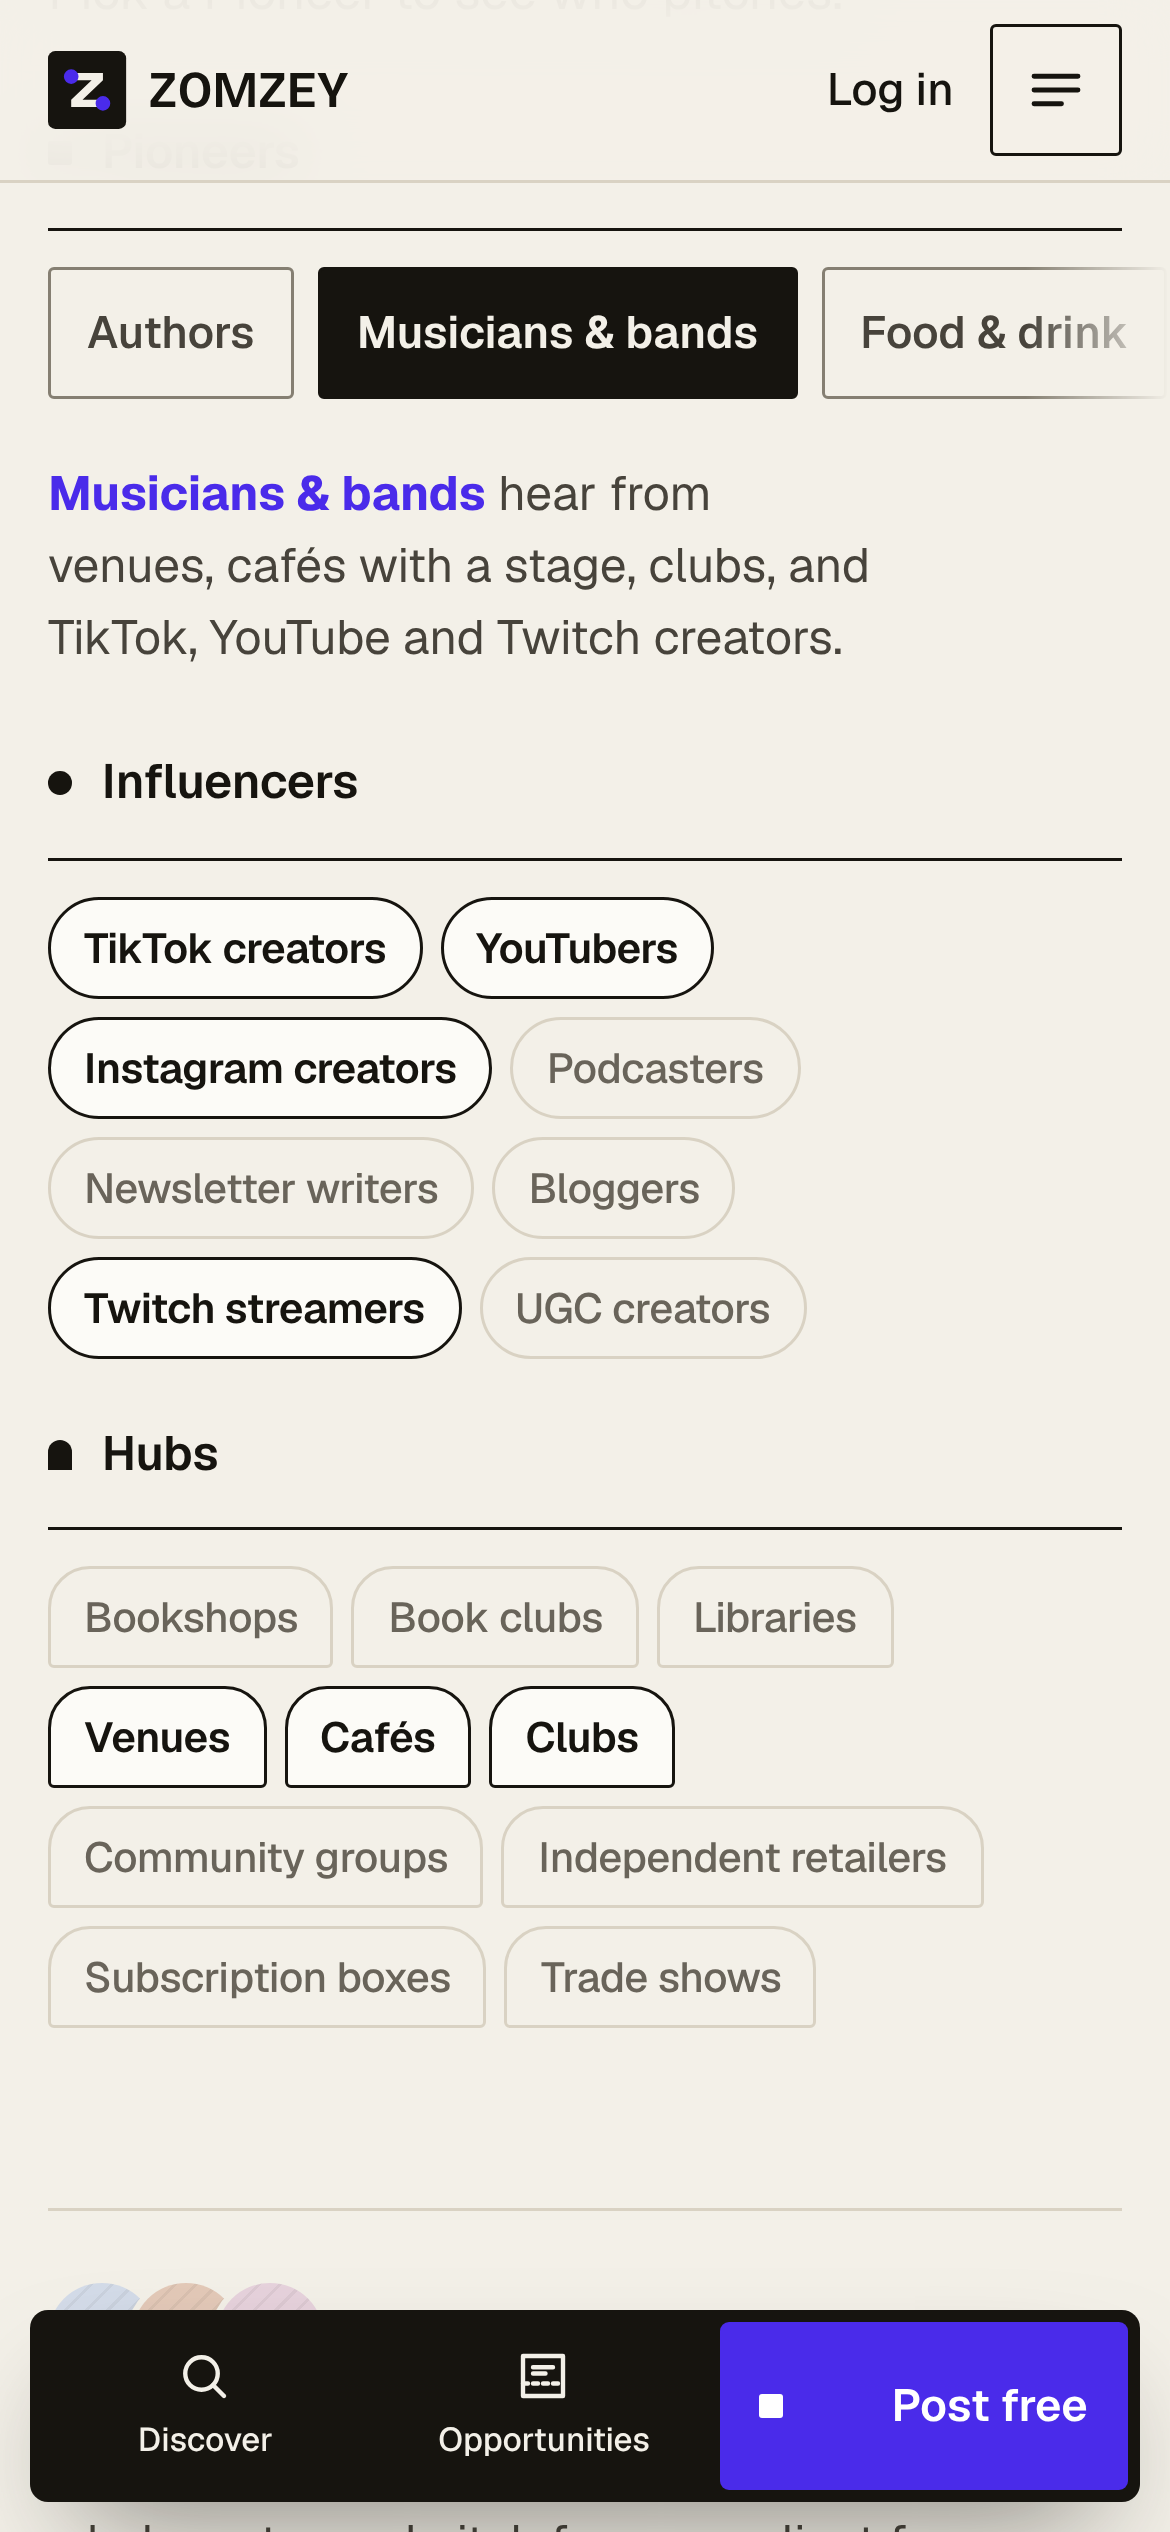
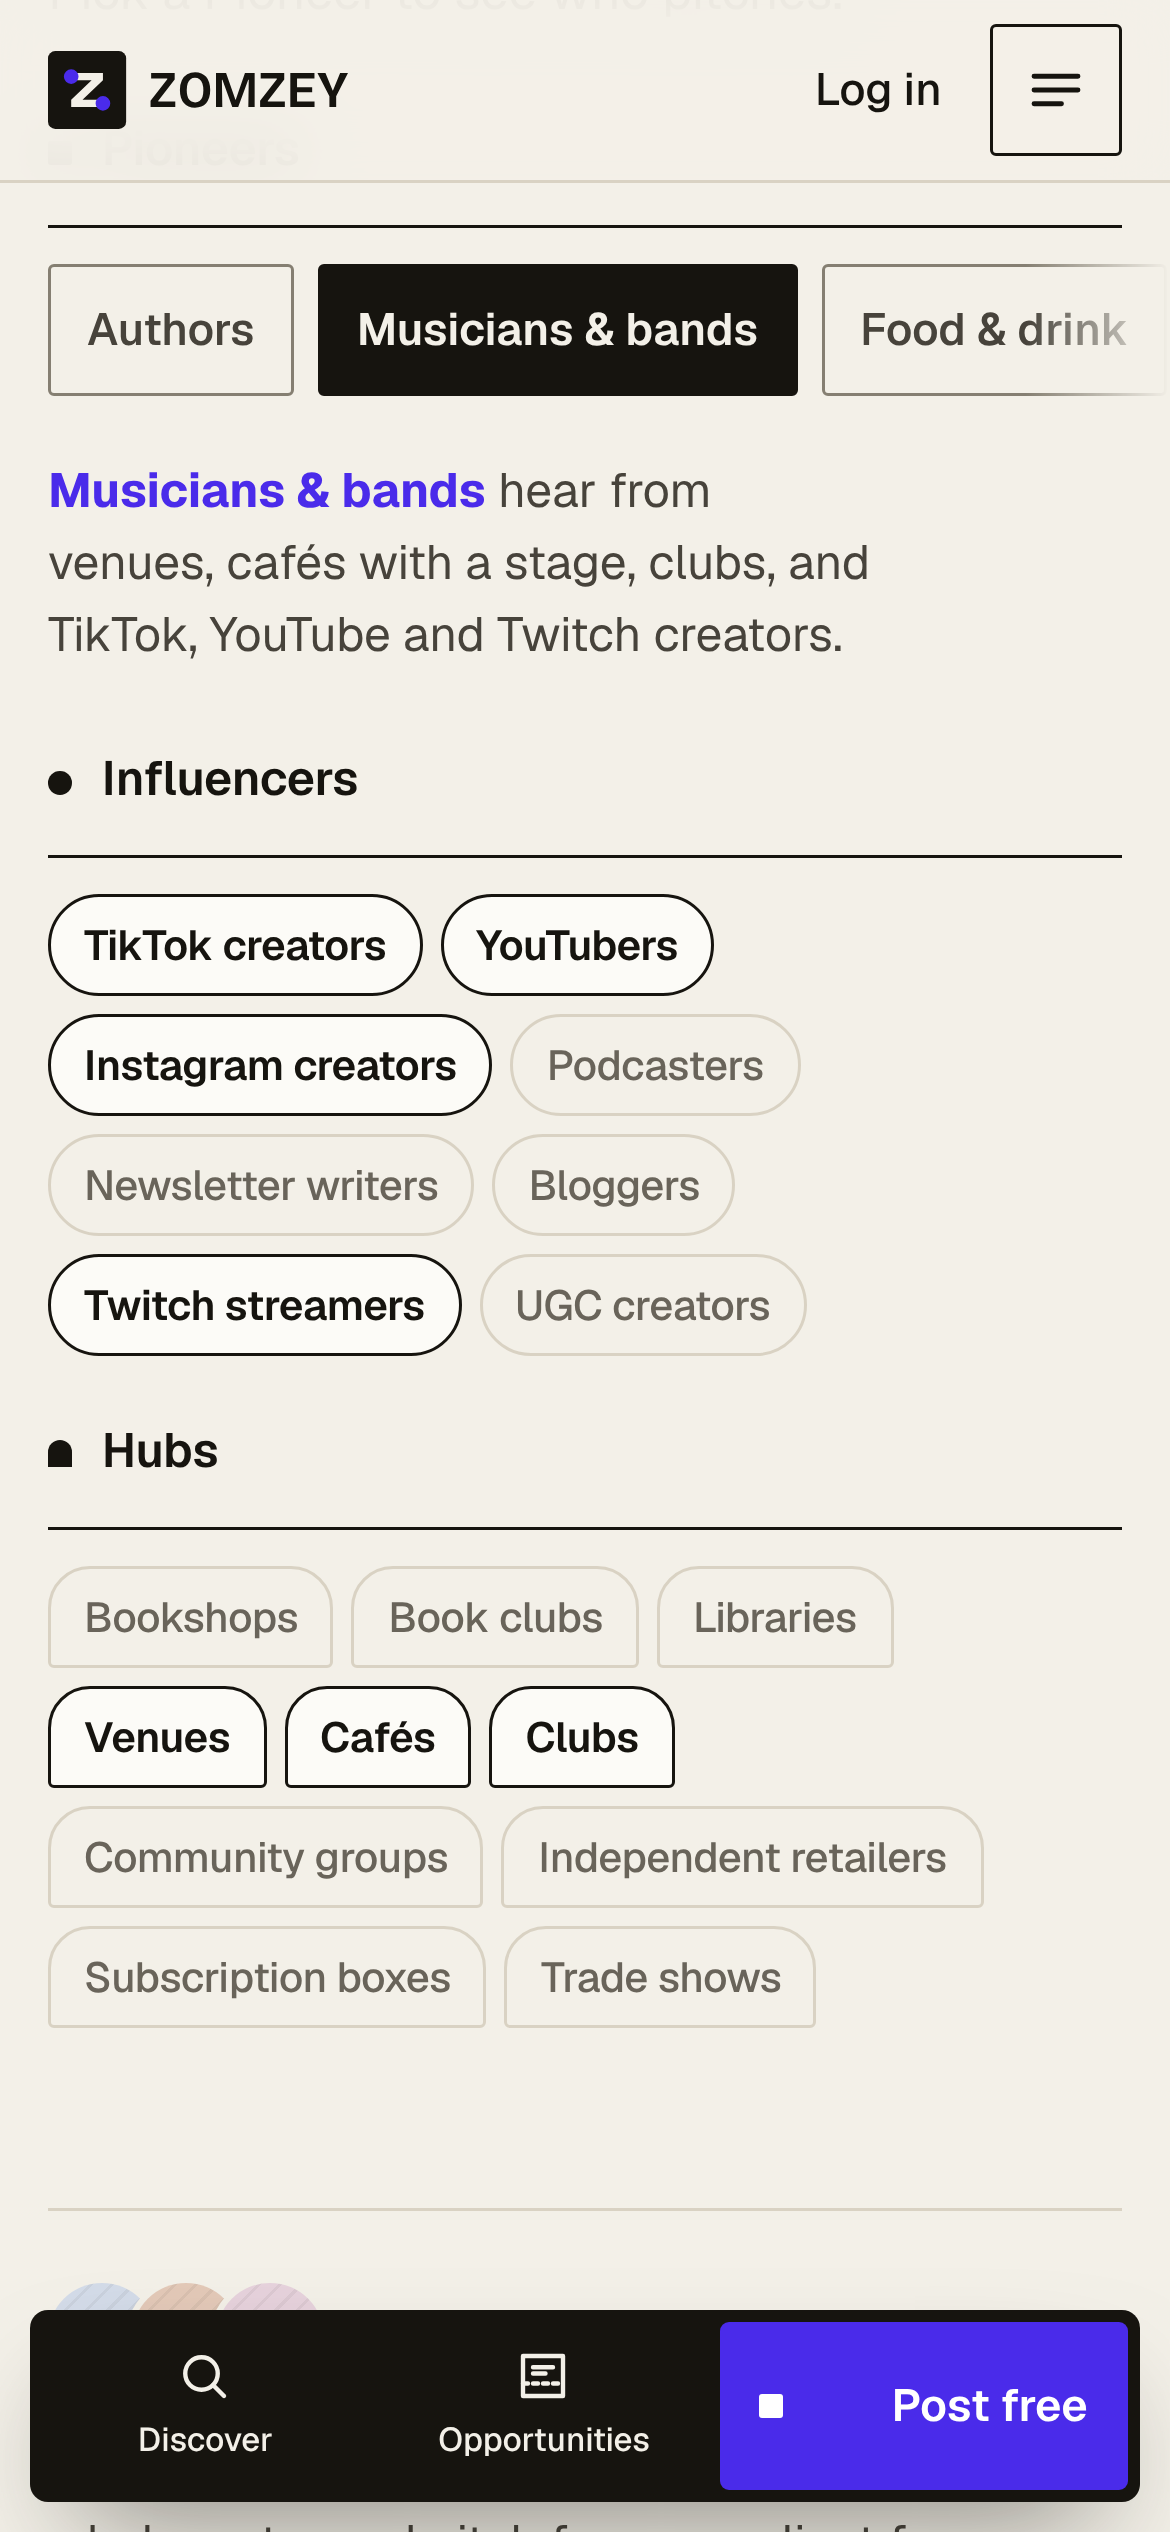
Accessibility review fixes: focus, tab order, tap targets, live status
- Mobile dock is inert while off-screen; focus rings >=3:1 on Earn door,
  dock and light receipt; offers list is a tab stop only where it scrolls
- Hero rail (aria-hidden) no longer focusable; desktop footer headings
  are not tab stops
- Sentence-builder selects get a 44px line pitch (no overlapping taps);
  Log in and agencies link reach 44px
- Board filter re-applied across breakpoint; mobile count matches cards
- Starter status is a live region tied to the input; motion toggle keeps
  one accessible name with aria-pressed
- QA re-run clean; screenshots and board regenerated

Claude-Session: https://claude.ai/code/session_01LjogVH6SGTpR4sy6o4nW9N

diff --git a/assets/js/home.js b/assets/js/home.js
@@ -251,7 +251,6 @@
     else routes.forEach((r) => r.dot.setAttribute('opacity', 0));
     if (motionBtn) {
       motionBtn.setAttribute('aria-pressed', String(paused));
-      motionBtn.querySelector('span').textContent = paused ? 'Play motion' : 'Pause motion';
       motionBtn.title = paused ? 'Play motion' : 'Pause motion';
       motionBtn.querySelector('use').setAttribute('href', paused ? '#i-play' : '#i-pause');
     }
@@ -436,8 +435,10 @@
   /* ---------------- Board: filters + brief sheet ---------------- */
   const board = $('[data-board]');
   const countEl = $('[data-board-count]');
+  let currentFilter = 'all';
   function applyFilter(f) {
     if (!board) return;
+    currentFilter = f;
     $$('[data-filter]', board).forEach((c) => c.setAttribute('aria-pressed', String(c.dataset.filter === f)));
     const grid = $('[data-board-grid]', board);
     if (grid) grid.dataset.showing = f;
@@ -453,6 +454,7 @@
         if (it.hidden) { it.hidden = false; it.classList.remove('is-entering'); void it.offsetWidth; it.classList.add('is-entering'); }
       } else it.hidden = true;
     });
+    if (!dimMode && f === 'all') n = Math.min(n, 5);   // mobile feed shows the first five
     if (countEl) countEl.textContent = `${n} opportunit${n === 1 ? 'y' : 'ies'} shown`;
   }
   if (board) $$('[data-filter]', board).forEach((c) => c.addEventListener('click', () => applyFilter(c.dataset.filter)));
@@ -532,7 +534,7 @@
   const dock = $('[data-dock]');
   if (dock) {
     let pastIntent = false, finaleIn = false;
-    const sync = () => dock.classList.toggle('is-visible', pastIntent && !finaleIn);
+    const sync = () => { const on = pastIntent && !finaleIn; dock.classList.toggle('is-visible', on); dock.inert = !on; };
     const intentEl = $('[data-intent-root]');
     if (intentEl) new IntersectionObserver(([e]) => { pastIntent = !e.isIntersecting && e.boundingClientRect.top < 0; sync(); }).observe(intentEl);
     const fin = $('.finale');
@@ -540,7 +542,14 @@
   }
 
   /* ---------------- Footer accordions on mobile ---------------- */
-  const syncFooter = () => $$('.fcol').forEach((d) => { d.open = !mqMobile.matches; });
+  const syncFooter = () => $$('.fcol').forEach((d) => {
+    d.open = !mqMobile.matches;
+    const s = $('summary', d); if (s) s.tabIndex = mqMobile.matches ? 0 : -1;   // static headings on desktop
+  });
+  $$('.fcol summary').forEach((s) => s.addEventListener('click', (e) => { if (!mqMobile.matches) e.preventDefault(); }));
+  const offersList = $('.rec__offers');   // only a tab stop where it scrolls (mobile)
+  const syncOffers = () => { if (offersList) offersList.tabIndex = mqMobile.matches ? 0 : -1; };
+  syncOffers();
   syncFooter();
 
   /* ---------------- Reveal ---------------- */
@@ -557,7 +566,7 @@
   const saved = store.get('zz-intent');
   setIntent(saved === 'earn' ? 'earn' : 'need', { persist: false });
   const relayout = () => { drawStage(); placeRail(); drawIndex(false); syncMotion(); };
-  mqMobile.addEventListener('change', () => { syncFooter(); relayout(); });
+  mqMobile.addEventListener('change', () => { syncFooter(); syncOffers(); relayout(); applyFilter(currentFilter); });
   window.addEventListener('resize', debounce(() => { placeRail(); drawIndex(false); sizeAllPicks(); }, 120));
   const ready = document.fonts && document.fonts.ready ? document.fonts.ready : Promise.resolve();
   ready.then(() => { sizeAllPicks(); relayout(); });
@@ -578,7 +587,7 @@
   what.addEventListener('input', sync);
   form.addEventListener('submit', (e) => {
     e.preventDefault();
-    if (!what.value.trim()) { what.setAttribute('aria-invalid', 'true'); what.focus(); return; }
+    if (!what.value.trim()) { what.setAttribute('aria-invalid', 'true'); status.textContent = 'Add what you’re promoting'; status.className = 'status status--closing'; what.focus(); return; }
     what.removeAttribute('aria-invalid');
     status.textContent = 'Saved — create your free account to post';
     status.className = 'status status--ready';

diff --git a/assets/css/home.css b/assets/css/home.css
@@ -763,7 +763,7 @@
   .site-header__inner { height: 60px; }
   .logo__img { height: 26px; }
   .header-cta { display: none; }
-  .nav__login { display: inline-flex; font-size: 0.9375rem; color: var(--ink); }
+  .nav__login { display: inline-flex; align-items: center; min-height: 44px; padding-inline: 4px; font-size: 0.9375rem; color: var(--ink); }
   .menu-btn { width: 44px; height: 44px; }
   .kicker { font-size: 0.8125rem; }
 
@@ -784,8 +784,9 @@
   .intent__tab { justify-content: center; min-height: 48px; padding: 0 8px; font-size: 1rem; border-radius: 1px; color: var(--ink-2); }
   .intent__tab::after { display: none; }
   .intent__tab[aria-selected="true"] { background: var(--ink); color: var(--paper); }
-  .builder { font-size: 1.3125rem; line-height: 1.42; margin: 22px 0; }
-  .pick { padding-block: 0.35em; margin-block: -0.35em; background-position: right 0.06em center, 0 calc(100% - 0.35em); }
+  .builder { font-size: 1.3125rem; line-height: 2.1; margin: 14px 0; }   /* ≈44px line pitch: stacked selects' tap areas never overlap */
+  .pick { padding-block: 0; margin-block: 0; background-position: right 0.06em center, 0 calc(100% - 0.36em); }
+  .index__agency .link { min-height: 44px; display: inline-flex; align-items: center; }
   .intent__actions { display: grid; gap: 2px; }
   .intent__actions .btn { width: 100%; }
   .intent__actions .btn .btn__label { flex: 1; }
@@ -1024,3 +1025,8 @@
   .js .stamp { opacity: 1; transform: rotate(-2.5deg); }
   .motion-toggle { display: none; }
 }
+
+/* Focus rings on mixed grounds (≥3:1 against what they sit on) */
+.door--earn :focus-visible { outline-color: var(--on-night); }
+.dock :focus-visible { outline-color: var(--paper); outline-offset: -3px; }
+.rec :focus-visible { outline-color: var(--violet); }

diff --git a/index.html b/index.html
@@ -239,7 +239,7 @@
   <div class="hero__net" data-net>
     <p class="sr-only">Illustration of the ZOMZEY network: an author’s opportunity receives offers from a BookTok creator and an independent bookshop; a band’s tour receives an offer from a Glasgow venue; the accepted £180 offer is held in Protected Payments until the work is approved.</p>
     <p class="hero__railhead" aria-hidden="true"><span class="status status--live">Live on ZOMZEY</span><span class="hero__railhint">Swipe <svg class="icon"><use href="#i-arrow"/></svg></span></p>
-    <div class="stage" aria-hidden="true" data-stage>
+    <div class="stage" aria-hidden="true" tabindex="-1" data-stage>
       <svg class="stage__lines" viewBox="0 0 820 800" preserveAspectRatio="none" data-stage-lines></svg>
 
       <!-- POST zone -->
@@ -752,11 +752,11 @@
       <form class="starter" id="starter-form" action="#join" data-starter>
         <div class="starter__top">
           <label class="starter__label" for="starter-what">What are you promoting?</label>
-          <span class="status status--draft" data-starter-status>Draft</span>
+          <span class="status status--draft" id="starter-status" role="status" data-starter-status>Draft</span>
         </div>
         <div class="starter__bar">
           <svg class="icon" aria-hidden="true"><use href="#i-spark"/></svg>
-          <input class="input" id="starter-what" name="what" autocomplete="off" placeholder="A novel, a hot sauce, a tour…" data-starter-what>
+          <input class="input" id="starter-what" aria-describedby="starter-status" name="what" autocomplete="off" placeholder="A novel, a hot sauce, a tour…" data-starter-what>
         </div>
       </form>
       <div class="door__actions">

diff --git a/docs/04-qa-report.md b/docs/04-qa-report.md
@@ -13,7 +13,7 @@ Raw output: [`docs/qa-results.json`](qa-results.json).
 | Console errors / warnings / page errors (all widths) | **None** |
 | Reduced motion (`prefers-reduced-motion: reduce`) | No running animations, connection dots hidden, stamps fully visible, no reveal-hidden content, pause control hidden |
 | Keyboard | Skip link first; logical order header → intent tabs → sentence builder → CTA → hero pause → deal stages → index; ←/→/Home/End move between intent tabs; Esc closes Tools, menu and brief sheets; focus returns to the opener; every stop shows a 2px violet ring |
-| Performance (local, cold, cache disabled) | 361 KB transferred, 10 requests (incl. logo SVG + favicon), no third-party requests, CLS 0, LCP ≈ 0.13–0.15 s; 1,150–1,182 DOM nodes |
+| Performance (local, cold, cache disabled) | 362 KB transferred, 10 requests (incl. logo SVG + favicon), no third-party requests, CLS 0, LCP ≈ 0.13–0.15 s; 1,150–1,182 DOM nodes |
 | Fonts | 3 self-hosted variable WOFF2 files (184 KB total), display & UI preloaded, `font-display: swap` |
 | Images | No bitmaps on the page; artefacts and icons are inline SVG; logo is an outlined SVG `<img>` |
 
@@ -52,6 +52,12 @@ Raw output: [`docs/qa-results.json`](qa-results.json).
 - Stage chips stuck on "Released" after jumping to top → reset on scroll to the top.
 - 16px favicon edges on half pixels → pixel-aligned cut; ICO regenerated.
 - Style guide type samples truncated at 1024/390 → wrap below desktop.
+- Keyboard/focus (accessibility review): the off-screen mobile dock is now `inert` while hidden; focus rings use paper on the dark Earn door and the dock, and violet on the light receipt (all ≥ 3:1); the offers list is a tab stop only where it scrolls; the aria-hidden hero rail can't take focus; desktop footer headings are no longer tab stops that collapse their column.
+- Stacked sentence-builder selects overlapped tap areas on mobile → 44px line pitch, no overlap.
+- Mobile "Log in" and "ZOMZEY for agencies" raised to 44px targets.
+- Board filter state is re-applied across the 767/768 breakpoint; the live count matches the 5 cards shown on mobile.
+- Brief starter status is a live `role="status"` region linked to the input, with an empty-submit message.
+- Motion toggle keeps one name ("Pause motion") with `aria-pressed`, instead of swapping both.
 
 ## Known limitations
 - Tested in Chromium only (Playwright). Safari/Firefox lack `field-sizing`; a JS fallback sizes the sentence-builder selects.

diff --git a/docs/05-polish-pass.md b/docs/05-polish-pass.md
@@ -83,6 +83,12 @@ the next. There are fewer small caps labels; the kickers are plain sentence case
 - The hero stage lines were mis-scaled at 1024. The scale is now read from a rendered node.
 - After a jump to top, the stage chips stayed on "Released". They now reset.
 - Two favicon edges sat on half pixels and rendered soft. The 16px cut is now pixel-aligned.
+- Accessibility review:
+  - The hidden mobile dock is `inert`.
+  - Focus rings pass 3:1 on dark and receipt grounds.
+  - The mobile selects no longer have overlapping tap targets.
+  - The board count is accurate and the filter state survives a breakpoint change.
+  - The starter announces its status.
 - Style guide:
   - The rhythm tokens, the night palette and the correct focus-ring copy were added.
   - Type samples no longer truncate on tablet or mobile.
